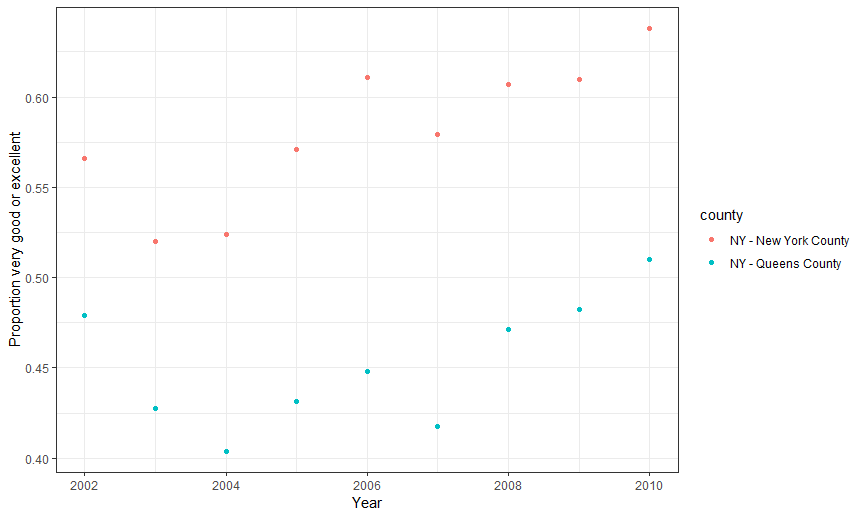
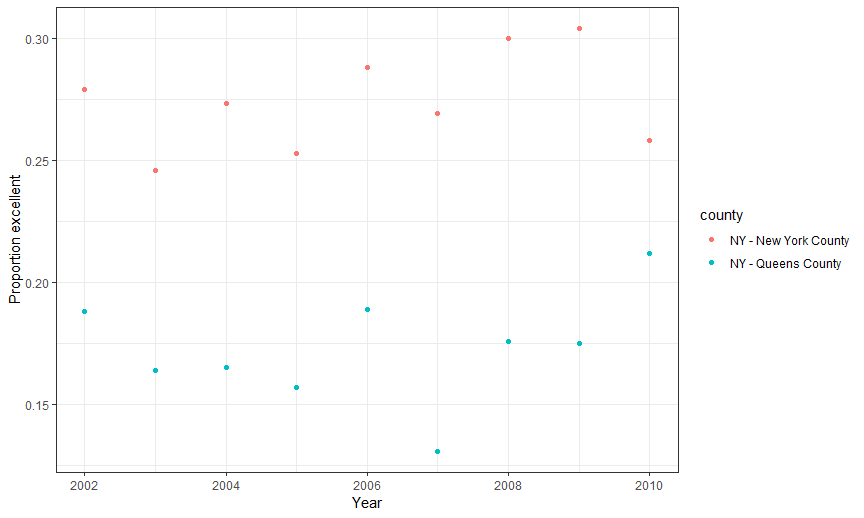
changed scatter plot so y is the proportion of excellent responses and not the proporiton of very good or excellent responses

diff --git a/p8105_hw2_ntw2117.md b/p8105_hw2_ntw2117.md
@@ -127,10 +127,11 @@ brfss_data %>%
 ``` r
 brfss_data %>% 
   filter(county %in% c("NY - New York County", "NY - Queens County")) %>% 
-  ggplot(aes(x = year, y = prop_very_good_excel, color = county)) + 
+  mutate(prop_excellent = excellent / (excellent + fair + good + poor + very_good)) %>% 
+  ggplot(aes(x = year, y = prop_excellent, color = county)) + 
   geom_point() + 
   labs(x = "Year", 
-       y = "Proportion very good or excellent") + 
+       y = "Proportion excellent") + 
   theme_bw()
 ```
 
